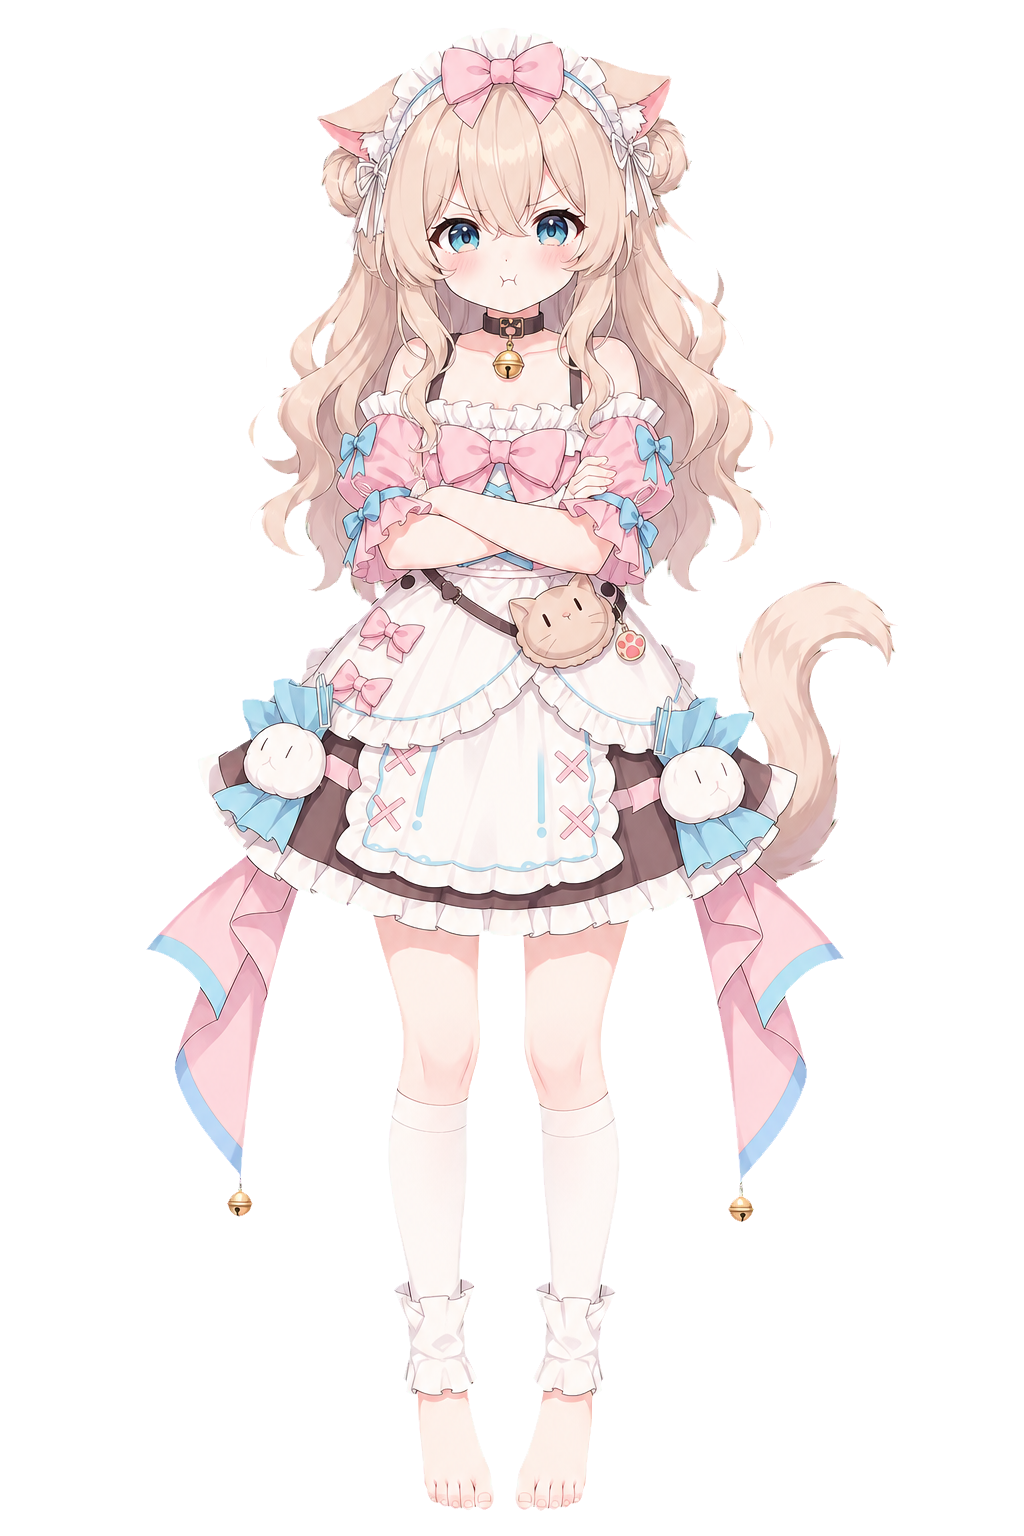
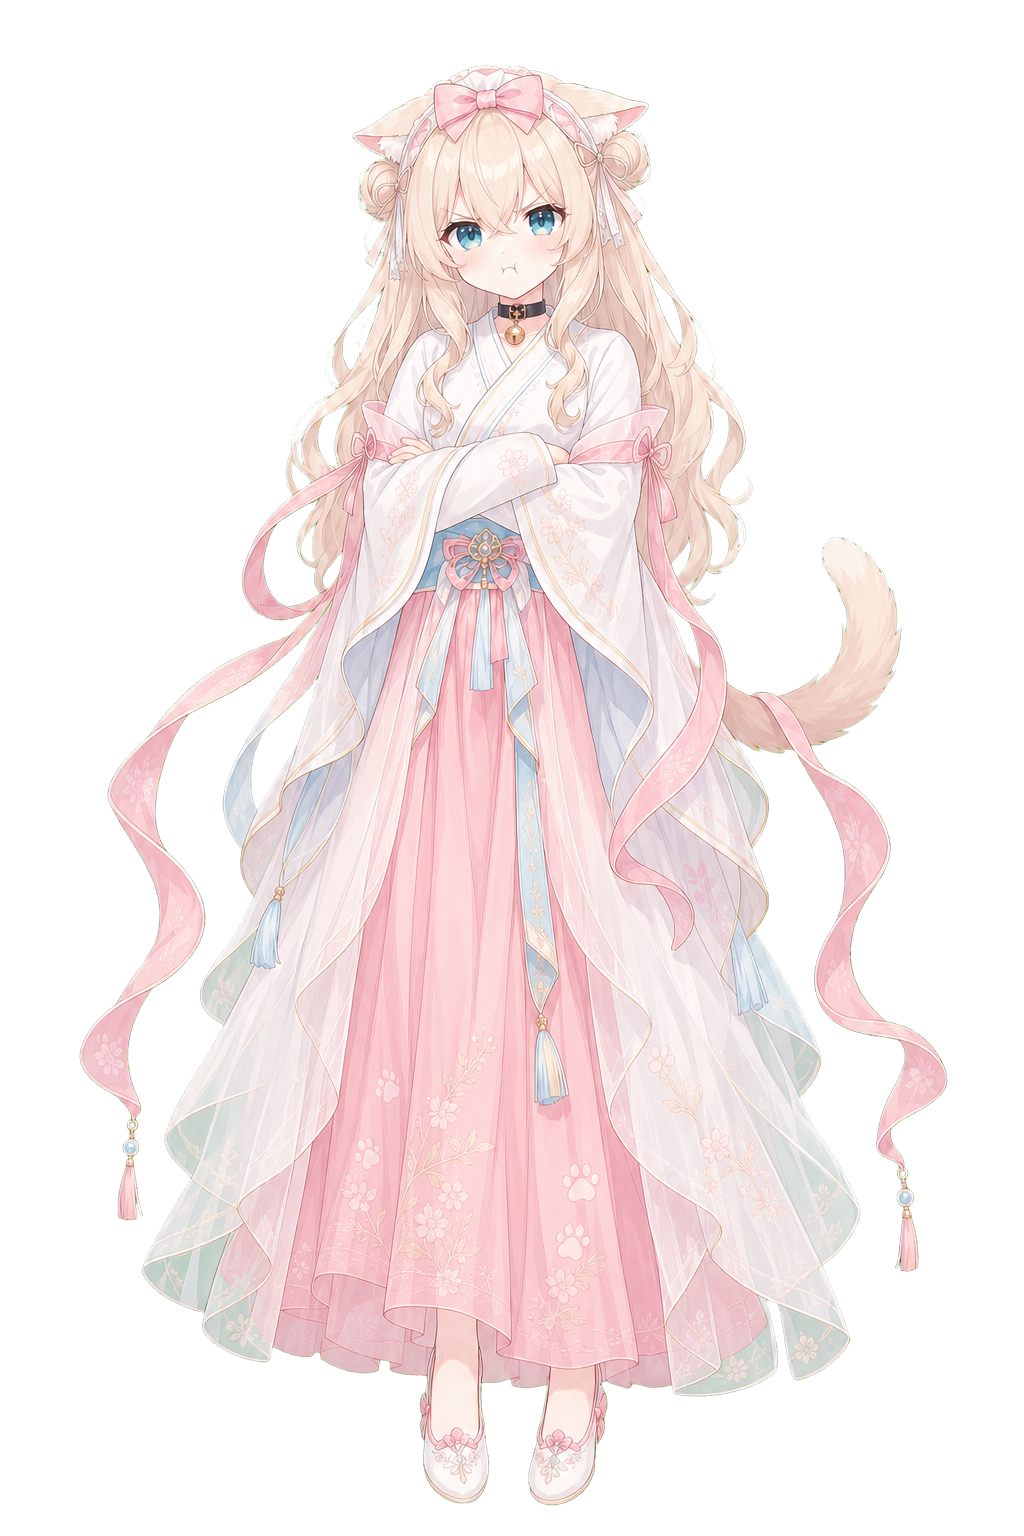
v2：女主仙侠风换装+真猫形态+心动升温曲线
- 向向全形象仙侠化：21张含Soya图以汉服锚图重生成（白交领广袖+粉襦裙飘带），核心识别元素保留；猫形态3张真猫脸化；v1旧图备份 design/old_outfit/
- 新增男性向恋爱兑现线（+125节点）：月下摸耳朵/灵泉撞见/摊牌夜初吻（烧本源盖章）/真结局晨光之吻+改口杀；新CG×3（灵泉/猫的规矩/晨光之约）
- 羁绊门槛随强制糖点整体平移（真结局≥14/魔染<10/平凡≥12），8结局路线模拟全部复测通过；npm test 全绿（1791节点）

diff --git a/web/script/ch2.js b/web/script/ch2.js
@@ -176,7 +176,7 @@
   C.n('木槌落下。', { cg: 'cg_auction' });
   C.n('全场都在看那个为块"废铁"砸五百灵石的疯子。');
   C.mc('（钱没了。但它回家了。）');
-  C.jump('sword_home');
+  C.jump('spring');
 
   C.label('bid_smart');
   C.mc('六十。');
@@ -201,6 +201,64 @@
   C.n('"客官好眼力。三千年前剑首的故事，听过吗？"');
   C.n('"这截剑，老朽收来的时候，附了半页残谱……"');
   C.n('他塞给你一张发脆的纸。', { note: '拍卖行老掌柜的残谱：剑首死后，其佩剑"听雨"自折为七段，散落人间。' });
+  /* —— 灵泉 —— */
+  C.label('spring');
+  C.scene({ bg: 'bg_houshan', music: 'tender', cast: [] });
+  C.n('回宗的路上，向向趴在兜帽里出主意。');
+  C.l('cat', 'normal', '剑尖锈了三千年，得用灵泉养。');
+  C.l('cat', 'normal', '后山的灵泉眼，戌时人最少。');
+  C.mc('懂行。');
+  C.l('cat', 'joy', '那当然！我可是剑灵她姐。喵。');
+  C.mc('（喵。这话最多三成真。）');
+  C.n('戌时。后山灵泉。');
+  C.n('雾气一团一团从水面上滚。');
+  C.n('你拎着剑尖，拨开最后一丛竹子——');
+  C.n('水声，轻轻一响。');
+  C.n('雾气里，一个奶白色的脑袋从泉水里冒出来。', { cg: 'cg_spring' });
+  C.n('湿透的长发贴着肩，猫耳上挂着水珠。');
+  C.n('金铃，搁在岸边的石头上。');
+  C.l('soya', 'shock', '？！？！');
+  C.mc('（她先来替剑暖泉了。）');
+  C.mc('（……现在怎么办。）');
+  C.choice([
+    ['立刻转身', 'sp_turn', { ban: 1, flag: 'gentleman' }],
+    ['愣在原地', 'sp_stare', { ban: 1 }]
+  ]);
+  C.label('sp_turn');
+  C.n('你转身的速度，比拔剑还快。', { cgOff: true });
+  C.mc('我什么都没看见。');
+  C.l('soya', 'blush', '你、你进来之前会喊一声会死吗！！');
+  C.mc('泉又不是你家的。');
+  C.l('soya', 'pout', '现在是了！本喵宣布的！');
+  C.n('身后水声哗啦，炸毛的动静隔着雾都听得清。');
+  C.jump('sp_after');
+  C.label('sp_stare');
+  C.n('你愣了整整三息。', { cgOff: true });
+  C.l('soya', 'blush', '三息！你愣了整整三息！');
+  C.l('soya', 'pout', '看够了吗，剑首大人？！');
+  C.mc('……雾太大，没看清。');
+  C.l('soya', 'pout', '没看清你还愣？！');
+  C.n('一捧泉水隔着雾泼过来，又准又狠。');
+  C.n('正中面门。');
+  C.label('sp_after');
+  C.n('最后的处置是——');
+  C.n('你背对泉水，坐在三丈外的石头上，');
+  C.n('替她守着路口，顺便挨训。');
+  C.l('soya', 'pout', '亏我还想给你个惊喜。');
+  C.mc('惊喜？');
+  C.l('soya', 'calm', '……三千年前，你带我泡过这种灵泉。');
+  C.l('soya', 'calm', '那时候我还是小猫，你嫌我一身跳蚤。');
+  C.mc('听起来像我干得出来的事。');
+  C.l('soya', 'pout', '你还把我按进水里搓了三遍！三遍！');
+  C.n('雾气后面，她的声音忽然轻下去。');
+  C.l('soya', 'smile', '可是那天的泉水，是温的。');
+  C.l('soya', 'smile', '后来三千年，我再没泡到过那么温的水。');
+  C.n('你看着手里那截锈剑尖，没接话。');
+  C.n('金铃在石头上，叮地响了一声。', { fx: { ban: 2 }, note: '三千年前，剑首带小猫泡过后山灵泉，还嫌她有跳蚤。她记了三千年。' });
+  C.n('剑尖在灵泉里泡了一个时辰，锈色褪了一层。');
+  C.n('回去的路上，兜帽里湿乎乎的，暖乎乎的。');
+  C.mc('（跳蚤的事，她记了三千年。）');
+  C.mc('（温水的事，也是。）');
   C.label('sword_home');
 
   /* —— 故剑与糖里藏刀 —— */

diff --git a/web/script/endings.js b/web/script/endings.js
@@ -31,8 +31,30 @@
   C.l('soya', 'smile', '这次，我守住了吧。');
   C.mc('守住了。');
   C.mc('以后换我守。');
-  C.n('窗台上，晨光正好。');
-  C.n('雨夜进来的那只猫，再也不用走了。');
+  C.n('她仰起脸看你，眼睛亮得像三千年所有的月亮。');
+  C.l('soya', 'blush', '主人，规矩还记得吧？');
+  C.mc('哪条？');
+  C.l('soya', 'blush', '重要的约定——');
+  C.l('soya', 'blush', '猫的规矩，要盖章。');
+  C.n('晨光漫进窗台，金铃轻轻一响。', { cg: 'cg_dawn_kiss' });
+  C.n('这一次的吻，没有人需要烧掉什么。');
+  C.n('这一次，时间长得足够把三千年，');
+  C.n('一寸一寸都补回来。');
+  C.n('许久，她在你怀里闷闷地宣布：', { cgOff: true });
+  C.l('soya', 'joy', '决定了！以后不叫主人了！');
+  C.l('soya', 'joy', '叫、叫……');
+  C.n('她酝酿了足足十息，耳朵以肉眼可见的速度烧红。');
+  C.l('soya', 'blush', '……{player}。');
+  C.mc('嗯。');
+  C.l('soya', 'blush', '不行，叫一次累一年！还是叫主人！');
+  C.mc('随你。反正都是我。');
+  C.n('后来，老周头挑着一整担鱼干上了山。');
+  C.n('说是聘礼。他单方面决定的。');
+  C.n('柳长青翻遍柳家藏书，挑了个黄道吉日。');
+  C.n('也是他单方面决定的。');
+  C.n('你们俩，谁都没反对。');
+  C.n('听雨崖上，雨停了。');
+  C.n('三千年来，崖上第一次升起了炊烟。');
   C.theEnd('END_TRUE');
 
   /* —— 众生剑 —— */
@@ -57,6 +79,9 @@
   C.l('soya', 'tear', '……主人？', { as: '向向' });
   C.l('soya', 'joy', '我想起来了！！');
   C.n('那天的青云宗，听见了三千年来最响的一声猫叫。');
+  C.n('然后，按猫的规矩——');
+  C.n('约定重逢这种大事，自然要盖章。', { cg: 'cg_dawn_kiss' });
+  C.n('晨光作证，金铃作保。', { cgOff: true });
   C.n('后来，听雨崖上多了两座剑冢。');
   C.n('一座葬剑，一座葬故人。');
   C.n('崖边的石头上，常年坐着一人一猫。');

diff --git a/web/script/ch1.js b/web/script/ch1.js
@@ -258,6 +258,39 @@
   C.l('soya', 'joy', '陪我坐会儿嘛！');
   C.l('soya', 'joy', '三千年了，我头一次又有人陪着看月亮。');
   C.n('湖边。她坐在你旁边，尾巴一晃一晃。');
+  C.n('说话间，她头顶的耳朵一直朝你这边偏。');
+  C.n('尖尖的，毛茸茸的，随着话音一抖一抖。');
+  C.mc('（很想知道手感。）');
+  C.choice([
+    ['摸耳朵', 'ear_touch', { ban: 1, flag: 'ear' }],
+    ['忍住', 'ear_hold', { ban: 1 }]
+  ]);
+  C.label('ear_touch');
+  C.n('你的手比脑子先动了。');
+  C.n('指尖碰到耳尖的瞬间——');
+  C.l('soya', 'shock', '喵呜？！');
+  C.n('她整个人原地弹起来三寸，尾巴炸成蒲公英。');
+  C.l('soya', 'blush', '猫、猫的耳朵不能随便摸啦！');
+  C.mc('抱歉。');
+  C.n('你收回手。');
+  C.n('三息的沉默。');
+  C.n('她的耳朵又一点一点，歪回你这边。');
+  C.l('soya', 'blush', '……也不是，完全不行。');
+  C.l('soya', 'blush', '就，就一下。轻点。');
+  C.n('耳朵的手感，比想象中还好。');
+  C.n('暖的，软的，会在掌心里轻轻发抖。');
+  C.n('她的眼睛眯起来，喉咙里发出极轻的呼噜声。');
+  C.n('——三千年前的听雨崖，大概也是这个声音。');
+  C.jump('moon_sit');
+  C.label('ear_hold');
+  C.mc('（忍住。三千岁的大妖，摸耳朵像话吗。）');
+  C.n('你把手背到身后。');
+  C.n('她瞥了你一眼，又瞥了一眼你背后的手。');
+  C.l('soya', 'pout', '……哼。');
+  C.mc('哼什么？');
+  C.l('soya', 'pout', '没什么。木头。');
+  C.mc('（？？？）');
+  C.label('moon_sit');
   C.n('讲她这三千年——');
   C.l('soya', 'smile', '我去过北边的冰海。你有一片魂在鲸鱼肚子里。');
   C.l('soya', 'smile', '去过烧了一百年的火山。那片魂最烫手。');

diff --git a/web/script/ch3.js b/web/script/ch3.js
@@ -309,6 +309,34 @@
   C.l('cat', 'sad', '……嗯。');
   C.l('cat', 'normal', '那主人的命，也不归主人一个人喔。');
   C.mc('……成交。');
+  C.n('当晚，你睡得很浅。');
+  C.n('半夜，枕边窸窣一响。');
+  C.n('一圈极淡的光纹里，她现出了人形。');
+  C.n('眉眼倦倦的，轮廓淡得像月光剪出来的。');
+  C.mc('（现形——她疯了？现在每一分本源都金贵！）');
+  C.mc('你给我变回去——');
+  C.l('soya', 'calm', '嘘。');
+  C.n('她竖起一根手指，按在你嘴唇上。');
+  C.l('soya', 'calm', '白天的约定，还差一道手续。');
+  C.mc('什么手续？');
+  C.l('soya', 'blush', '重要的约定，要盖章。');
+  C.l('soya', 'blush', '猫的规矩。');
+  C.n('月光里，她俯下身。', { cg: 'cg_first_kiss' });
+  C.n('额头先抵上你的额头，停了三息。');
+  C.n('然后，很轻很轻地——');
+  C.n('吻落下来。');
+  C.n('像一片雪落进温水里。');
+  C.n('金色的光屑从她发梢浮起，又散掉。');
+  C.n('她直起身，耳朵红透了，却笑得理直气壮。');
+  C.l('soya', 'blush', '章，盖好了。');
+  C.l('soya', 'blush', '约定生效，不许反悔。');
+  C.mc('……这一下，烧了你多少本源？');
+  C.l('soya', 'smile', '不告诉你。');
+  C.n('光纹散去，枕边又是那只小猫。', { cgOff: true });
+  C.n('它把脸埋进爪子里，尾巴尖卷住你的手指。');
+  C.l('cat', 'normal', '……值得就行了。喵。');
+  C.mc('（喵。）');
+  C.mc('（这次，我希望它是真话。）');
   C.jump('roster');
 
   C.label('pretend');

diff --git a/web/script/ch4.js b/web/script/ch4.js
@@ -243,7 +243,7 @@
   C.label('liu_key');
 
   /* 魔染结局入口 */
-  C.router([[{ flags: ['forhate'], min: { jian: 8 }, max: { ban: 5 } }, 'demon_path']], 'liu_arrive');
+  C.router([[{ flags: ['forhate'], min: { jian: 8 }, max: { ban: 9 } }, 'demon_path']], 'liu_arrive');
 
   C.label('demon_path');
   C.n('后半夜，你一个人下了山。');
@@ -286,7 +286,7 @@
   C.n('身体里有些东西，比记忆死得慢。');
   C.choice([
     ['直取飞升台', 'counter', { flag: 'hubao' }],
-    ['带她走，不打了', 'leave_check', {}, { min: { ban: 8 } }],
+    ['带她走，不打了', 'leave_check', {}, { min: { ban: 12 } }],
     ['把她托付给周伯', 'entrust', { jian: 1, flag: 'solo' }]
   ]);
 

diff --git a/web/script/characters.js b/web/script/characters.js
@@ -107,5 +107,6 @@ window.CG_TITLES = {
   cg_gather: '集结', cg_confront: '飞升台对峙', cg_wanjian: '万剑归宗',
   cg_end_true: '天下剑鸣', cg_end_ash: '白首剑帝', cg_end_sleep: '剑冢长眠',
   cg_end_demon: '魔染', cg_end_leave: '平凡之路', cg_end_refuse: '猫的报恩',
-  cg_end_arena: '断剑台'
+  cg_end_arena: '断剑台',
+  cg_spring: '灵泉', cg_first_kiss: '猫的规矩', cg_dawn_kiss: '晨光之约'
 };

diff --git a/web/script/ch5.js b/web/script/ch5.js
@@ -256,8 +256,8 @@
 
   /* 最后一剑：羁绊与真相的结算 */
   C.router([
-    [{ min: { truth: 6, ban: 10 }, flags: ['jiushen', 'liumeng'] }, 'final_ally'],
-    [{ min: { truth: 6, ban: 10 } }, 'final_true']
+    [{ min: { truth: 6, ban: 14 }, flags: ['jiushen', 'liumeng'] }, 'final_ally'],
+    [{ min: { truth: 6, ban: 14 } }, 'final_true']
   ], 'final_sleep');
 
   /* 败局：剑冢长眠 */

diff --git a/design/story-bible.md b/design/story-bible.md
@@ -105,6 +105,18 @@
 | 尾声五点 | 集结（按盟友flag）→ 攻飞升台 → 高塔惊变（圣主开价：献祭向向换新天）→ 深挖（烧契约or斩契约）→ 万剑归宗 | 终极选择=人物弧光完成时 |
 | 终场画面 | 黎明窗台，小猫睁开蓝眼睛："鱼干呢？" | 与开场雨夜互为镜像 |
 
+## 四点五、心动升温曲线（男性向恋爱兑现，2026-06-12 增补）
+
+| 阶段 | 场景 | 兑现 |
+| --- | --- | --- |
+| 升温1 | 一章·月下摸耳朵 | 猫耳敏感+呼噜声，选择制造心跳 |
+| 升温2 | 二章·灵泉撞见 | 含蓄福利+喜剧炸毛+三千年温水回忆杀（CG：cg_spring） |
+| 高点1 | 三章·摊牌夜初吻 | 她烧本源现形"盖章"——糖里藏刀的极致（CG：cg_first_kiss） |
+| 低谷 | 四章·失忆 | 亲密资产全部清零，玩家与主角同痛 |
+| 高点2 | 真结局·晨光之吻+改口杀 | 无代价的吻+叫名字+聘礼彩蛋（CG：cg_dawn_kiss） |
+
+尺度红线：点到浓处留白（fade to black），不写露骨内容；每个亲密场景必须服务人物弧光。
+
 ## 五、爽点清单（必须全部兑现）
 
 1. 序章：剑骨一夜重铸，面板亮出"真实底蕴：返虚剑意"——废柴皮、神装底。
@@ -176,12 +188,12 @@
 
 | ID | 名称 | 条件 | 内容 | 情报奖励（进情报页） |
 | --- | --- | --- | --- | --- |
-| END_TRUE | 天下剑鸣 | 斩契约 + truth≥6 + ban≥10 | 险胜，向向活，黎明窗台告白（CG：cg_end_true） | 全CG解锁提示 |
+| END_TRUE | 天下剑鸣 | 斩契约 + truth≥6 + ban≥14 | 险胜，向向活，黎明窗台告白（CG：cg_end_true） | 全CG解锁提示 |
 | END_ALLY | 众生剑 | END_TRUE条件 + jiushen + liumeng | 真结局加强版：废飞升祭，沈青澜接掌宗门，柳家卸任，结尾彩蛋赵虎烧火 | 终极彩蛋 |
 | END_ASH | 白首剑帝 | 烧契约 | 你赢了。白发，神座，掌心一只铃铛。镜头拉远：你坐成了第二个顾长生（CG：cg_end_ash） | 天道账册：飞升祭的真实算式 |
-| END_SLEEP | 剑冢长眠 | 斩契约 + truth<6 | 力竭败北。三千年后，崖上有个白衣女孩还在等（CG：cg_end_sleep） | 顾长生的剑招破绽（下周目终战提示） |
-| END_DEMON | 魔染 | 四章选『为恨活』+ jian≥8 + ban<6 且接受圣使条件 | 你接过名册，坐上圣山。猫形的影子在殿外停了三天，走了（CG：cg_end_demon） | 圣主日记：他是怎么一步步说服自己的 |
-| END_LEAVE | 平凡之路 | 四章『带她走』+ ban≥8 | 小镇面摊，兜帽下的耳朵，生锈的剑（CG：cg_end_leave） | 隐藏情报：听雨崖的位置 |
+| END_SLEEP | 剑冢长眠 | 斩契约 + (truth<6 或 ban<14) | 力竭败北。三千年后，崖上有个白衣女孩还在等（CG：cg_end_sleep） | 顾长生的剑招破绽（下周目终战提示） |
+| END_DEMON | 魔染 | 四章选『为恨活』+ jian≥8 + ban<10 且接受圣使条件 | 你接过名册，坐上圣山。猫形的影子在殿外停了三天，走了（CG：cg_end_demon） | 圣主日记：他是怎么一步步说服自己的 |
+| END_LEAVE | 平凡之路 | 四章『带她走』+ ban≥12 | 小镇面摊，兜帽下的耳朵，生锈的剑（CG：cg_end_leave） | 隐藏情报：听雨崖的位置 |
 | END_REFUSE | 猫的报恩 | 序章赶她走两次 | 你照常被逐出宗门，活成普通人。多年后房顶上总有只猫看你（CG：cg_end_refuse） | 提示：窗台的铃铛刻着一个名字 |
 | END_ARENA | 断剑台 | 二章对沈青澜故意输 + jian<3 | 剑骨再碎，被抬出山门；向向背着你走远（CG：cg_end_arena） | 情报：沈家当年买凶碎你剑骨的账单 |
 

diff --git a/ACCEPTANCE.md b/ACCEPTANCE.md
@@ -12,6 +12,8 @@
 | 任何时间都有理由玩下去 | 倒计时三连（三日逐出→飞升祭点名→明日午时）；谜团链（谁碎我剑骨→面板小字→她的修为去哪了→天柱是什么→顾长生跪什么）；坏结局全部给情报+下周目暗号；章末钩子由 test/hooks.mjs 强制校验；开场60秒内危机+倒计时+猫开口（测试断言通过） |
 | 女主向向Soya、用皮套素材 | 全部含Soya图像生成时附素材参考图；soya_smile 等8表情立绘与素材高度一致（奶白卷发双团子+猫耳+蓝瞳+粉结+金铃颈圈+粉白裙）；猫形态3差分同设计语言；title_keyvisual/moon_reveal/end_true 等CG均经目视核对一致性 |
 | 参考救猫咪/英雄史诗/人物弧光 | design/story-bible.md：救猫咪15节拍逐一落地（含字面意义的"救猫"开场）；主角弧光=从"力量万能、人皆背叛"到"宁可变弱也不再让人替我死"；向向/顾长生/沈青澜/柳长青/老周头各有欲望-伤口-面具-弧光四件套；终章选择即弧光完成时（烧契约=堕入镜像，斩契约=完成弧光） |
+| 情到浓时有兑现（2026-06-12增补） | 五段心动升温曲线：月下摸耳朵（敏感+呼噜声）→灵泉撞见（含蓄福利CG：cg_spring）→摊牌夜初吻（烧本源盖章，CG：cg_first_kiss）→失忆清零（与主角同痛）→真结局晨光之吻+改口杀+聘礼彩蛋（CG：cg_dawn_kiss）。尺度全程含蓄留白，每段服务人物弧光；新增125节点，8条路线模拟随门槛平移后全部复测通过 |
+| 女主形象v2：仙侠风换装+真猫脸（2026-06-12增补） | 21张含Soya图全部以仙侠汉服锚图重生成（白交领广袖+粉襦裙白纱飘带，发型/猫耳/蓝瞳/粉结/金铃/尾巴保留）；猫形态3张改真猫脸（突出口鼻+杏仁猫眼，禁人脸）；v1旧图备份 design/old_outfit/；逐张目视复核+游戏内走查通过 |
 | 图片用本机codex+gpt-image-2、子代理生成不阻塞 | 6个sonnet后台代理调用 `codex exec`（gpt-image-2）生产64张图，主进程并行开发引擎与剧本；遇到codex随机降级spark模型导致僵死，以 `-m gpt-5.5` 强制修复；每张图代理自检（sips尺寸/alpha + 目视手部/重影/一致性），状态留痕 design/asset-status-*.md |
 
 ## 二、软爪方法论硬标准

diff --git a/design/asset-spec.md b/design/asset-spec.md
@@ -124,6 +124,9 @@ codex exec --dangerously-bypass-approvals-and-sandbox --skip-git-repo-check \
 | C24 | cg/cg_end_refuse.png | P1 | 含猫：dusk rooftops, a small cream cat with pink bow watching from a roof ridge a distant ordinary man walking home below, melancholic warm light |
 | C25 | cg/cg_end_arena.png | P1 | rain on an empty arena, a shattered plain sword lying on wet stone, blood thinning in rainwater, no people, cold grey |
 | C26 | cg/cg_betrayal.png | P0 | memory flashback: on a colossal white-jade ascension platform above golden clouds, a white-robed long-haired swordsman seen from front with a sword blade piercing out of his chest from behind, golden light shattering like glass around him, a blurred silver-haired figure behind, tragic, dramatic |
+| C27 | cg/cg_spring.png | P0(v2) | 含Soya(锚图)：hot spring in bamboo forest at night, thick white steam, Soya in the water up to her shoulders half turned away looking back surprised and shy, wet cream-blonde hair, cat ears with water droplets, golden bell resting on a rock at the edge, steam tastefully covering everything below shoulders, no nudity visible, comedic flustered mood |
+| C28 | cg/cg_first_kiss.png | P0(v2) | 含Soya(锚图)：moonlit small wooden room, Soya in a faintly glowing translucent form leaning down to softly kiss the lying protagonist (black ponytail), foreheads close, golden light particles rising from her hair like embers, her edges slightly fading, bittersweet tender, dark blue night palette |
+| C29 | cg/cg_dawn_kiss.png | P0(v2) | 含Soya(锚图)：warm sunrise flooding a windowsill, Soya in her xianxia hanfu tiptoeing up to kiss the protagonist in white robes, his hands catching her shoulders, golden bell shining, pink petals in morning light, joyful tears, celebratory and warm |
 
 ## 数量自检
 

diff --git a/design/asset-status-v2.md b/design/asset-status-v2.md
@@ -1,0 +1,25 @@
+# v2仙侠化批量 06-12 02:30
+soya_joy.png OK attempt1
+soya_pout.png OK attempt1
+soya_tear.png OK attempt1
+soya_blush.png OK attempt1
+soya_shock.png OK attempt1
+soya_calm.png OK attempt1
+soya_fade.png OK attempt1
+cat_alert.png OK attempt1
+cat_sad.png OK attempt1
+title_keyvisual.png OK attempt1
+cg_moon_reveal.png OK attempt1
+cg_sword_tomb.png OK attempt1
+cg_collapse.png OK attempt1
+cg_panel_truth.png OK attempt1
+cg_core_burn.png OK attempt1
+cg_end_true.png OK attempt1
+cg_end_leave.png OK attempt1
+cg_end_refuse.png OK attempt1
+DONE 03:32
+# 恋爱线CG接力 03:33
+cg_spring.png OK attempt1
+cg_first_kiss.png OK attempt1
+cg_dawn_kiss.png OK attempt1
+ROMANCE_DONE 03:49
